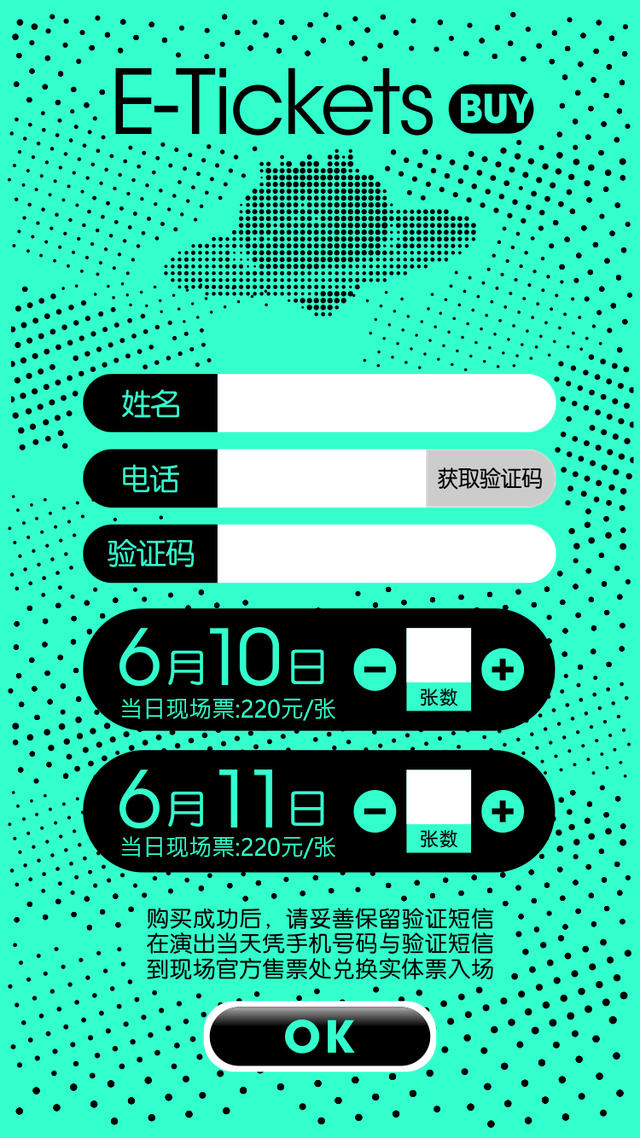
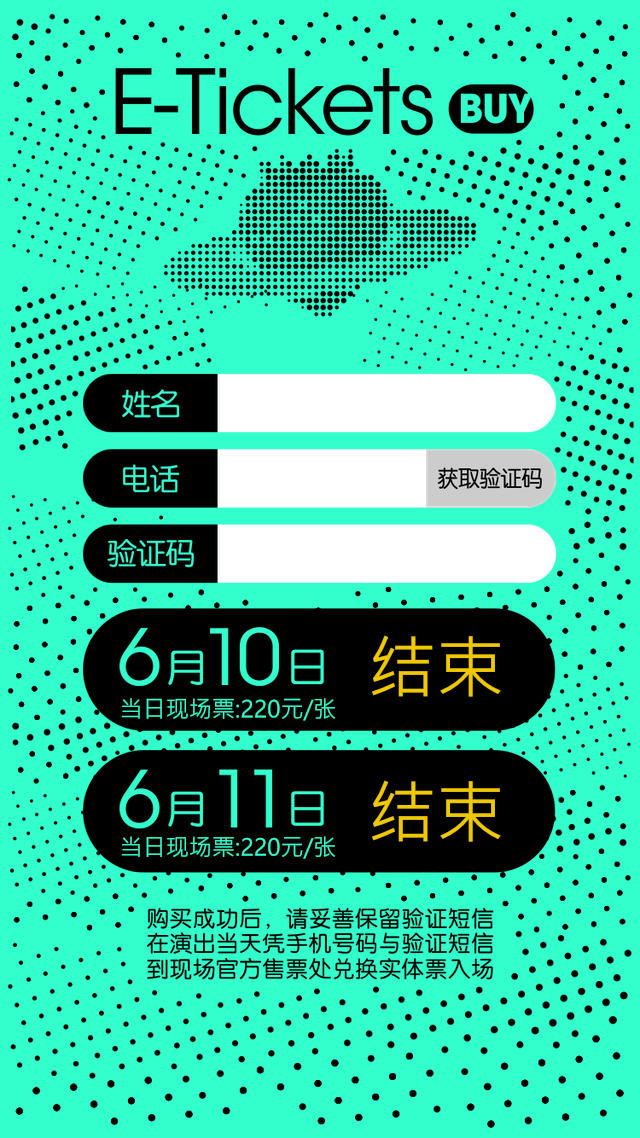
Change: 活动结束，将页面改为产品停售状态

Changed region(s): [[0.3125, 0.8612, 0.6875, 0.9534], [0.5312, 0.6766, 0.8125, 0.7689], [0.5312, 0.5536, 0.8125, 0.6459]]

diff --git a/ticket-buy.html b/ticket-buy.html
@@ -42,6 +42,9 @@
             alert('信息异常，请关闭购买页面后重新尝试');
             location.href = 'index.html';
         }
+
+        /*定于2017年06月08日下午4点关闭购买*/
+        alert('本产品已停售');
     </script>
     <style>
         body {
@@ -128,6 +131,7 @@
             height: 1.5em;
             padding: 0px;
             margin: 0px;
+            display:none;
         }
 
         #double-num {
@@ -144,6 +148,7 @@
             -webkit-appearance: none;
             text-align: center;
             background-color: rgba(255, 0, 0, 0);
+            display:none;
         }
 
         .numBtn {
@@ -157,23 +162,26 @@
         .single-jia {
             left: 481px;
             top: 647px;
-
+            display:none;
         }
 
         .single-jian {
             left: 353px;
             top: 647px;
+            display:none;
         }
 
         .double-jia {
             left: 481px;
             top: 789px;
+            display:none;
         }
 
         .double-jian {
 
             left: 353px;
             top: 789px;
+            display:none;
         }
     </style>
 </head>
@@ -310,6 +318,9 @@
         /*//关闭购买
          alert('票已售罄，本次购买结束。');
          return true;*/
+        /*定于2017年06月08日下午4点关闭购买*/
+        alert('产品已停售');
+        return true;
 
         var errMsg = '';
         //0. 判断用户名是否填写
